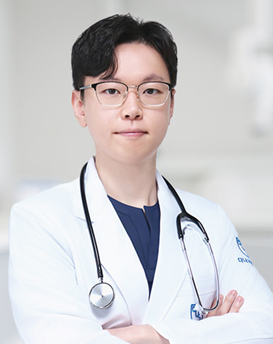
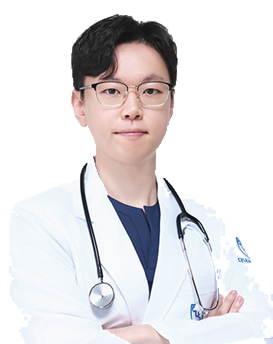
Add files via upload

diff --git a/index.html b/index.html
@@ -23,7 +23,7 @@
 <a href="#about">다나고 소개</a>
 <a href="#care">진료 분야</a>
 <a href="doctors.html">의료진 소개</a>
-<a href="#visit">진료 안내</a>
+<a href="#schedule">의료진 진료표</a><a href="#visit">진료 안내</a>
 <a class="nav-cta" href="https://map.naver.com/p/search/다나고한의원%20병점" rel="noopener" target="_blank">네이버 예약 <span>↗</span></a>
 </nav>
 </header>
@@ -81,28 +81,52 @@
 </div>
 <div class="care-grid">
 <article class="care-card">
-<div class="care-art art-pain"><span class="art-number">01</span><span aria-hidden="true" class="art-symbol">✚</span><span class="art-word">PAIN CARE</span></div>
-<div class="care-body"><span class="care-label">PAIN &amp; REHABILITATION</span><h3>통증재활</h3><p>목·허리·어깨·관절의 통증과 움직임의 불편감을 살펴 진료 방향을 안내합니다.</p><a href="https://map.naver.com/p/search/다나고한의원%20병점" rel="noopener" target="_blank">상담 및 예약 안내 <span>↗</span></a></div>
+<div class="service-visual"><img loading="lazy" src="shockwave.jpg" alt="진료 안내 자료"/></div>
+<div class="care-body"><h3>통증재활</h3><p>목·허리·어깨·관절의 통증과 움직임의 불편감을 살펴 진료 방향을 안내합니다.</p><a href="https://map.naver.com/p/search/다나고한의원%20병점" rel="noopener" target="_blank">상담 및 예약 안내 <span>↗</span></a></div>
 </article>
 <article class="care-card">
-<div class="care-art art-accident"><span class="art-number">02</span><span aria-hidden="true" class="art-symbol">✧</span><span class="art-word">AFTER CARE</span></div>
-<div class="care-body"><span class="care-label">POST-ACCIDENT CARE</span><h3>교통사고후유증</h3><p>교통사고 이후 발생한 통증과 불편감에 대해 상태를 확인하고 진료를 상담합니다.</p><a href="https://map.naver.com/p/search/다나고한의원%20병점" rel="noopener" target="_blank">상담 및 예약 안내 <span>↗</span></a></div>
+<div class="care-art art-accident"><span class="art-number">02</span><span aria-hidden="true" class="art-symbol">✧</span></div>
+<div class="care-body"><h3>교통사고후유증</h3><p>교통사고 이후 발생한 통증과 불편감에 대해 상태를 확인하고 진료를 상담합니다.</p><a href="https://map.naver.com/p/search/다나고한의원%20병점" rel="noopener" target="_blank">상담 및 예약 안내 <span>↗</span></a></div>
 </article>
 <article class="care-card">
-<div class="care-art art-admission"><span class="art-number">03</span><span aria-hidden="true" class="art-symbol">▣</span><span class="art-word">INPATIENT</span></div>
-<div class="care-body"><span class="care-label">INPATIENT CARE</span><h3>입원치료</h3><p>입원 진료가 필요한지 상태를 확인하고 입원 가능 여부와 치료 과정을 안내합니다.</p><a href="https://map.naver.com/p/search/다나고한의원%20병점" rel="noopener" target="_blank">상담 및 예약 안내 <span>↗</span></a></div>
+<div class="service-visual"><img loading="lazy" src="accident.jpg" alt="진료 안내 자료"/></div>
+<div class="care-body"><h3>입원치료</h3><p>입원 진료가 필요한지 상태를 확인하고 입원 가능 여부와 치료 과정을 안내합니다.</p><a href="https://map.naver.com/p/search/다나고한의원%20병점" rel="noopener" target="_blank">상담 및 예약 안내 <span>↗</span></a></div>
 </article>
 <article class="care-card">
-<div class="care-art art-weight"><span class="art-number">04</span><span aria-hidden="true" class="art-symbol">◉</span><span class="art-word">BALANCE</span></div>
-<div class="care-body"><span class="care-label">WEIGHT MANAGEMENT</span><h3>다이어트</h3><p>체중 변화와 생활 습관, 현재 상태를 살펴 개인별 관리 방향을 상담합니다.</p><a href="https://map.naver.com/p/search/다나고한의원%20병점" rel="noopener" target="_blank">상담 및 예약 안내 <span>↗</span></a></div>
+<div class="care-art art-weight"><span class="art-number">04</span><span aria-hidden="true" class="art-symbol">◉</span></div>
+<div class="care-body"><h3>다이어트</h3><p>체중 변화와 생활 습관, 현재 상태를 살펴 개인별 관리 방향을 상담합니다.</p><a href="https://map.naver.com/p/search/다나고한의원%20병점" rel="noopener" target="_blank">상담 및 예약 안내 <span>↗</span></a></div>
 </article>
 <article class="care-card">
-<div class="care-art art-growth"><span class="art-number">05</span><span aria-hidden="true" class="art-symbol">✿</span><span class="art-word">GROWTH</span></div>
-<div class="care-body"><span class="care-label">GROWTH CARE</span><h3>성장</h3><p>아이의 성장 상태와 생활 패턴을 확인하고 필요한 상담을 진행합니다.</p><a href="https://map.naver.com/p/search/다나고한의원%20병점" rel="noopener" target="_blank">상담 및 예약 안내 <span>↗</span></a></div>
+<div class="service-visual"><img loading="lazy" src="admission.jpg" alt="진료 안내 자료"/></div>
+<div class="care-body"><h3>성장</h3><p>아이의 성장 상태와 생활 패턴을 확인하고 필요한 상담을 진행합니다.</p><a href="https://map.naver.com/p/search/다나고한의원%20병점" rel="noopener" target="_blank">상담 및 예약 안내 <span>↗</span></a></div>
 </article>
 </div>
 </div>
-</section><section class="section doctors-section" id="doctors">
+</section>
+<section class="section detail-section" id="treatments">
+ <div class="section-kicker"><span>진료 및 검사 안내</span><b></b></div>
+ <div class="section-head"><h2>상태를 살피고<br><em>필요한 진료를 안내합니다</em></h2><p>검사 및 치료의 시행 여부는 진료 시 증상과 상태를 확인한 뒤 결정합니다.</p></div>
+ <div class="detail-grid">
+ <article class="detail-card"><img src="balance.jpg" alt="아이밸런스 체형분석 안내" loading="lazy"><div><h3>체형분석 · 아이밸런스 검사</h3><p>자세 불균형과 체형 상태를 살펴 상담에 참고합니다. 검사 결과는 의료진의 진찰과 함께 해석합니다.</p></div></article>
+ <article class="detail-card"><img src="ultrasound.jpg" alt="초음파 검사 안내" loading="lazy"><div><h3>초음파 검사</h3><p>필요한 경우 근육·힘줄 등 연부조직 상태를 확인하는 데 초음파를 활용합니다.</p></div></article>
+ <article class="detail-card"><img src="shockwave.jpg" alt="체외충격파 치료 안내" loading="lazy"><div><h3>체외충격파 치료</h3><p>통증 부위와 상태에 따라 체외충격파 치료의 적합성을 상담합니다. 치료 반응은 개인마다 다를 수 있습니다.</p></div></article>
+ <article class="detail-card"><img src="chuna.jpg" alt="추나요법 안내" loading="lazy"><div><h3>추나요법</h3><p>관절 움직임과 근육·근막의 긴장 상태를 고려해 수기 치료를 상담합니다.</p></div></article>
+ </div>
+</section>
+<section class="section program-section" id="programs"><div class="section-kicker"><span>특화 진료 안내</span><b></b></div><div class="section-head"><h2>다나고의<br><em>진료 프로그램</em></h2><p>진료 내용과 비용, 적용 여부는 의료진 상담 및 개별 상태에 따라 달라질 수 있습니다.</p></div><div class="program-grid">
+ <article><img src="accident.jpg" loading="lazy" alt="교통사고 자동차보험 진료 안내"><div><h3>교통사고 후유증</h3><p>사고 이후 목·허리·관절의 통증과 움직임의 불편감을 확인하고 자동차보험 진료 관련 절차를 안내합니다. 보험 적용 범위는 사고·보험 조건에 따라 확인이 필요합니다.</p></div></article>
+ <article><img src="admission.jpg" loading="lazy" alt="입원 및 재활치료 안내"><div><h3>입원 · 재활치료</h3><p>입원 진료가 필요한 경우 환자의 상태와 입원 가능 여부를 확인하고 진료 계획을 상담합니다. 병실과 입원 가능 일정은 사전에 문의해 주세요.</p></div></article>
+ <article><img src="diet.jpg" loading="lazy" alt="다빼고 다이어트 패키지 안내"><div><h3>다이어트</h3><p>체중 변화, 식사·수면·활동 습관을 종합적으로 살펴 한약 등 개별 관리 방향을 상담합니다. 안내 이미지의 패키지 구성과 비용은 확인이 필요합니다.</p></div></article>
+ <article><img src="growth.jpg" loading="lazy" alt="녹용 성장 패키지 안내"><div><h3>소아 · 청소년 성장</h3><p>성장 상태와 생활습관을 확인하고 성장 관련 상담을 진행합니다. 한약 및 관련 관리의 필요 여부는 개별 평가를 통해 결정합니다.</p></div></article>
+ </div></section>
+<section class="section schedule-section" id="schedule"><div class="section-kicker"><span>의료진 진료 스케줄</span><b></b></div><div class="section-head"><h2>의료진별<br><em>진료 요일 안내</em></h2><p>제공해 주신 진료 스케줄 기준이며, 휴진·대진 및 공휴일 일정은 변경될 수 있습니다.</p></div>
+<div class="schedule-scroll"><table class="schedule-table"><thead><tr><th scope="col">의료진</th><th>월</th><th>화</th><th>수</th><th>목</th><th>금</th><th>토</th><th>일</th></tr></thead><tbody>
+<tr><th scope="row">김진규 <small>대표원장</small></th><td class="on">●</td><td>—</td><td class="on">●</td><td>—</td><td class="on">●</td><td class="on">●</td><td>—</td></tr>
+<tr><th scope="row">방재호 <small>진료원장</small></th><td>—</td><td class="on">●</td><td class="on">●</td><td class="on">●</td><td>—</td><td>—</td><td class="on">●</td></tr>
+<tr><th scope="row">김지수 <small>진료원장</small></th><td class="on">●</td><td>—</td><td>—</td><td class="on">●</td><td class="on">●</td><td>—</td><td class="on">●</td></tr>
+<tr><th scope="row">장혜민 <small>진료원장</small></th><td>—</td><td class="on">●</td><td>—</td><td>—</td><td>—</td><td class="on">●</td><td>—</td></tr>
+</tbody></table></div><p class="schedule-foot">● 진료 요일 · 진료 시간은 전화로 확인해 주세요. 제공된 스케줄 안내 이미지 기준입니다.</p></section>
+<section class="section doctors-section" id="doctors">
 <div class="section-kicker"><span></span><b></b></div>
 <div class="section-head doctors-head">
 <h2>다나고한의원<br/><em>의료진을 소개합니다.</em></h2>

diff --git a/styles.css b/styles.css
@@ -160,3 +160,51 @@
 .hero-inner{position:relative;z-index:1}
 .hero h1{max-width:1050px;text-shadow:0 2px 20px rgba(255,255,255,.55)}
 @media(max-width:640px){.hero:before{width:320px;height:320px;right:-185px;top:-130px}.doctor-photo{height:330px!important}}
+
+
+/* v11: mobile-first content extensions */
+*,*::before,*::after{box-sizing:border-box}
+html{scroll-behavior:smooth;scroll-padding-top:90px}
+body{overflow-x:hidden}
+img{max-width:100%}
+.doctor-photo{background:#fff!important}
+.doctor-photo img{background:#fff!important;object-fit:contain!important}
+.section-head h2,.hero h1{overflow-wrap:keep-all;word-break:keep-all}
+.service-visual{height:190px;background:#f4f8fe;overflow:hidden}
+.service-visual img{width:100%;height:100%;object-fit:cover;object-position:center 38%;display:block}
+.detail-grid,.program-grid{display:grid;grid-template-columns:repeat(2,minmax(0,1fr));gap:22px}
+.detail-card,.program-grid article{border:1px solid #e0e9f5;border-radius:20px;overflow:hidden;background:white;box-shadow:0 8px 30px rgba(20,67,125,.04)}
+.detail-card img{width:100%;height:260px;object-fit:contain;background:#f5f8ff;display:block}
+.program-grid img{width:100%;height:300px;object-fit:contain;background:#f5f8ff;display:block}
+.detail-card>div,.program-grid article>div{padding:23px 25px 28px}
+.detail-card h3,.program-grid h3{font-size:23px;line-height:1.3;color:#154b9b;margin:0 0 10px;word-break:keep-all}
+.detail-card p,.program-grid p{font-size:16px;line-height:1.8;color:#52657e;margin:0;word-break:keep-all}
+.schedule-section{background:#f5f9ff;border-radius:22px}
+.schedule-scroll{width:100%;overflow-x:auto;-webkit-overflow-scrolling:touch}
+.schedule-table{width:100%;min-width:620px;border-collapse:separate;border-spacing:0;background:white;border:1px solid #dbe7f6;border-radius:14px;overflow:hidden;text-align:center}
+.schedule-table th,.schedule-table td{padding:17px 12px;border-bottom:1px solid #e4edf7;font-size:17px}
+.schedule-table thead th{background:#1455ad;color:white;font-weight:700}
+.schedule-table tbody th{text-align:left;color:#163d7d;white-space:nowrap}
+.schedule-table small{display:block;font-size:12px;font-weight:400;color:#71839a;margin-top:3px}
+.schedule-table .on{color:#1761c4;font-size:19px;font-weight:900}
+.schedule-table tr:last-child td,.schedule-table tr:last-child th{border-bottom:0}
+.schedule-foot{font-size:14px;color:#60738e;margin-top:15px}
+@media(max-width:800px){.detail-grid,.program-grid{grid-template-columns:1fr}.service-visual{height:220px}}
+@media(max-width:640px){
+ .hero h1{font-size:clamp(33px,8.4vw,45px)!important;line-height:1.33!important;letter-spacing:-.065em!important}
+ .hero-inner{padding:72px 22px 80px!important}
+ .section-head h2{font-size:clamp(30px,8vw,42px)!important;line-height:1.3!important}
+ .section-head p,.care-body p{font-size:16px!important;line-height:1.75!important}
+ .care-body h3{font-size:23px!important}
+ .care-body a{font-size:15px!important}
+ .detail-card img,.program-grid img{height:auto;max-height:350px;object-fit:contain}
+ .detail-card>div,.program-grid article>div{padding:22px}
+ .detail-card h3,.program-grid h3{font-size:22px}
+ .detail-card p,.program-grid p{font-size:16px}
+ .schedule-section{border-radius:14px}
+ .schedule-table th,.schedule-table td{padding:14px 10px;font-size:16px}
+ .doctor-photo{background:#fff!important}
+ .doctor-bio{font-size:16px!important;line-height:1.8!important}
+ .quick-text strong{font-size:16px!important;word-break:keep-all}
+ .quick-text small{font-size:13px!important}
+}

diff --git a/README.md b/README.md
@@ -1,6 +1,1 @@
-다나고한의원 v10 — 원본 얼굴 보존 버전
-
-의료진 사진은 사용자가 제공한 개별 원본 사진을 수정 없이 그대로 사용했습니다. 따라서 얼굴 변형이 없고 원본의 연회색 사진 배경은 남아 있습니다. 투명 배경 제거를 적용하지 않았습니다.
-메인 배경은 기존 레이아웃을 유지하며 은은한 블루 그라데이션/원형 장식만 추가했습니다.
-
-GitHub 저장소 루트에 압축 해제된 파일 전체를 업로드하세요. 기존 doctor-*.jpg는 더 이상 사용되지 않습니다.
+다나고한의원 v11: 기존 블루·화이트 스타일 유지. 원장님 사진은 원본 얼굴 그대로, 회색 배경의 일부만 흰색으로 정리. 의료진 스케줄은 제공 이미지 기준(김진규 월수금토 / 방재호 화수목일 / 김지수 월목금일 / 장혜민 화토). 이미지 안내 문구는 효과를 보장하지 않습니다. 실제 스케줄·진료시간·예약 URL 및 보험 안내는 공개 전 확인하세요. GitHub 저장소 최상위에 압축 해제한 파일 전체를 업로드하세요.
